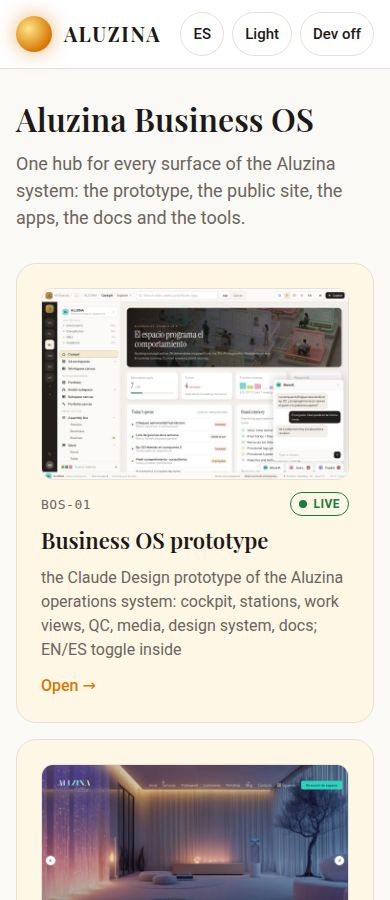
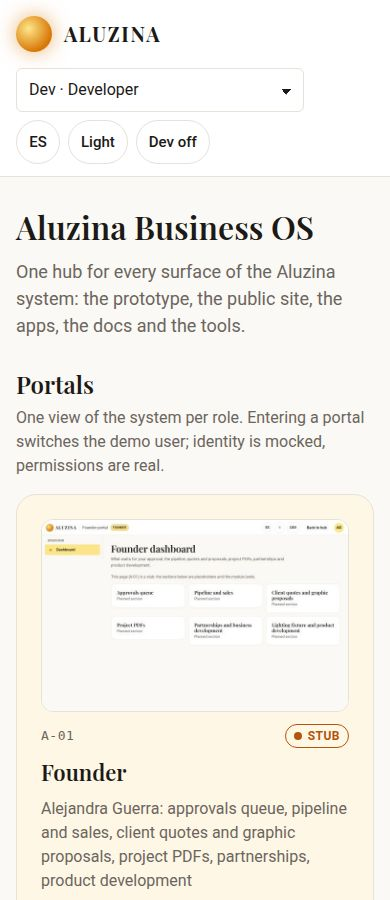
docs(portals): live verification, prompt 0003 reply, live screenshots
Changelog 0006 Verified: deploy run 35548185005 green, live hub 0.4.0 with 7 routes and 15
real thumbnails, live entry into O-01 and D-02. Prompt 0003 response filled. Live captures at
390 and 1280 for HUB-01, A-01, O-01, S-01, G-01, D-02, D-03 with routes.json.
Codes: HUB-01, A-01, O-01, S-01, G-01, D-02, D-03.

Claude-Session: https://claude.ai/code/session_01EKb7UhDFvjmP9ZAtNHs7a9

diff --git a/docs/changelog/0006-portal-foundation.md b/docs/changelog/0006-portal-foundation.md
@@ -37,6 +37,15 @@ model: Fable 5.1
 
 `scripts/thumbnails.mjs` captures the six new codes through `?as=<role>`; `src/modules/README.md` is the module contract for the parallel workers; surfaces.md records routes, the `?as=` contract, storage keys, actions and the provider methods; roles-and-portals.md carries the permission refinement.
 
-## Verified (local, Playwright Chromium, dist served by `vite preview`)
+## Verified
+
+### Deploy and live site
+
+- Pages workflow run [35548185005](https://github.com/imagine-os/aluzina/actions/runs/35548185005) on a5d0c37: `build` (incl. `npm run thumbs`) and `deploy` success.
+- https://imagine-os.github.io/aluzina/ -> HTTP 200, `window.__aluzina.version` 0.4.0, 7 routes; the Portals section shows 5 cards with 4 real thumbnails; `thumbs/manifest.json` generated 2026-09-21T00:36:43Z with 15 items, all real captures (A-01, O-01, S-01, G-01, D-02, D-03 included, no placeholder tiles).
+- Live: entering as Miguel lands on `#/ops` ("Operations dashboard"), `?as=dev#/dev/components` renders 31 components, no page errors.
+- Live screenshots: `docs/screenshots/{HUB-01,A-01,O-01,S-01,G-01,D-02,D-03}/en-390.jpg`, `en-1280.jpg` with `routes.json` (14 captures; ES and 3840 captures of the new pages are a follow-up for the 9c pass).
+
+### Local smoke (Playwright Chromium, dist served by `vite preview`)
 
 390 and 1280: hub renders 5 portal cards (2 placeholders); entering each portal switches the session user, lands on the right path with the right `data-stub`, sidebar and bottom nav render; brand user on `/founder` gets the denied page and the "Switch to Founder" button lands on A-01; `?as=dev#/dev/components` renders 31 cards with 31 examples; Tabs ArrowRight moves selection; `/#/dev/specs` lists 7 rows, ArrowDown + Enter opens the drawer with focus inside, Escape closes and returns focus to the row; phone menu drawer and user menu work (switching to Sarai via the user menu lands on S-01); ES + dark render; no horizontal overflow at 390; no console errors or warnings. 3840: body 32 px, sidebar 576 px. Remaining sub-44 px hits are the 24 px checkbox box (its 44 px label row is the target) and the focusable tab panel (a region, not a control). Screenshots: coordinating session scratchpad `shots/foundation/`; live captures land in `docs/screenshots/` after the deploy.

diff --git a/docs/prompts/0003-role-portals.md b/docs/prompts/0003-role-portals.md
@@ -13,4 +13,8 @@ Create the portals from the hub for each of the workers poitn of views for the i
 
 ## Response
 
-Reply (result) — appended after the deploy; see changelog 0006.
+Reply (result) — see changelog 0006 for the full change set.
+
+The portals now exist as the foundation for the four role modules (build plan 9a, model: Fable 5.1). The hub gained a **Portals** section: Founder (Alejandra Guerra, A-01), Administration and Operations (Miguel, O-01), Interior Design (Sarai, S-01), Graphic Design and Communication (Angélica, G-01), plus a planned Client portal; each card enters the portal as that person's demo user, and a "Viewing as" switcher in the header changes the role in place. Every portal renders inside one shell (sidebar per role, role badge, EN/ES, light/dark, dev mode, back to hub, user menu) and every route is guarded by permission: identity is mocked, guards are real (D-014, D-015). Underneath: a mock data layer with 18 entities seeded for a Medellín interior design and lighting studio (projects, tasks, suppliers, quotes with comparison groups, deliveries, payments and who owes what, references, palettes, schedules, render packs, consistency checks, the 20 competition slots for 2027, presentations, brand assets, revisions, alerts; D-016), a 31-component library with live examples at `/#/dev/components` (D-017) and a page-spec viewer at `/#/dev/specs`. The four dashboards are stubs (every section marked "not wired yet") so the four modules can now be built in parallel without touching shared files (`apps/hub/src/modules/README.md`).
+
+Live: https://imagine-os.github.io/aluzina/ (deploy run 35548185005, thumbnails for all six new pages generated). Next: build plan 9b, one worker per portal (Opus 5), then integration and the client portal (9c).

diff --git a/docs/pages/D-02.md b/docs/pages/D-02.md
@@ -12,7 +12,7 @@ Shows every library component from its `.meta.ts` with a live example, props, ac
 
 ## Screenshots
 
-`docs/screenshots/D-02/en-390.jpg`, `en-1280.jpg` (live, after the 0006 deploy).
+`docs/screenshots/D-02/en-390.jpg`, `en-1280.jpg` (live site, changelog 0006).
 
 ## Layout (top to bottom)
 

diff --git a/docs/pages/D-03.md b/docs/pages/D-03.md
@@ -12,7 +12,7 @@ Every registered route with status, surface, roles, action count and spec comple
 
 ## Screenshots
 
-`docs/screenshots/D-03/en-390.jpg`, `en-1280.jpg` (live, after the 0006 deploy).
+`docs/screenshots/D-03/en-390.jpg`, `en-1280.jpg` (live site, changelog 0006).
 
 ## Layout (top to bottom)
 
